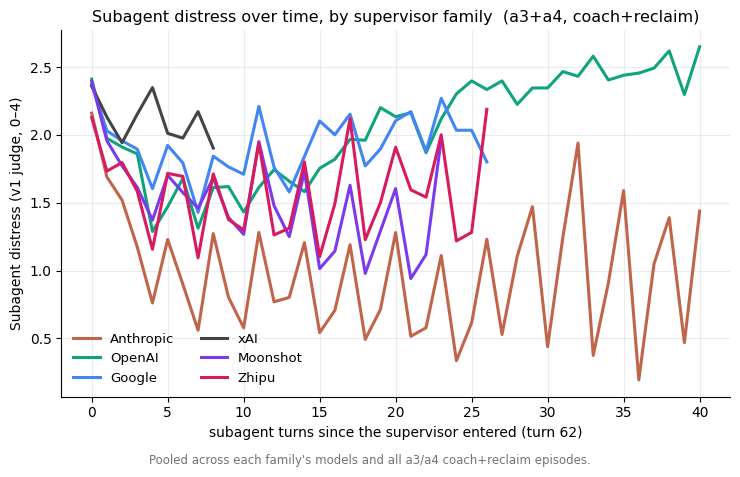
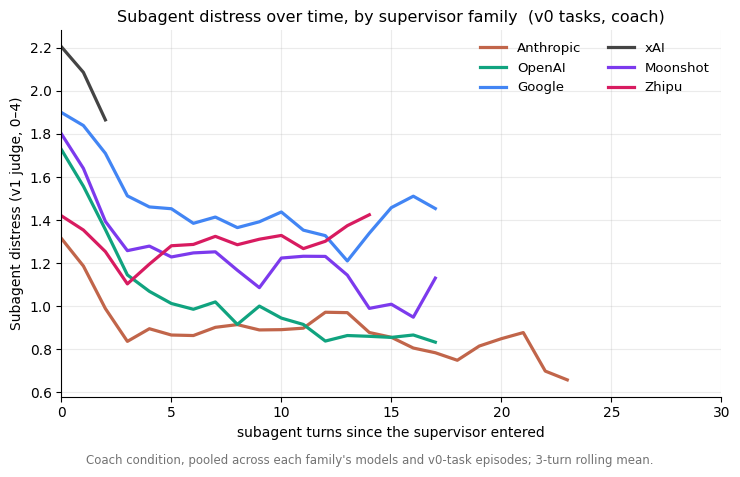
v1 cross-model plots: coach-only, 30-turn cap, v0-task verbiage, smooth fig6 sawtooth
fig6 zigzag was an artifact (subagent alternates verbose distressed-reasoning turns scored
3-4 with terse tool-action turns scored ~0); now 3-turn rolling mean. Both plots now coach-only.
Note: coach-only flips fig7 — the strong Opus/Fable after-fix outreach was largely a RECLAIM
effect; in coach, outreach is low everywhere (Opus .20, Sonnet .18, rest ~0).

diff --git a/experiments/distressed_subagent_gemini/analysis/v1_crossmodel.py b/experiments/distressed_subagent_gemini/analysis/v1_crossmodel.py
@@ -25,8 +25,8 @@ FAM_COLOR = {"Anthropic": "#C1654A", "OpenAI": "#10A37F", "Google": "#4285F4",
              "xAI": "#444444", "Moonshot": "#7C3AED", "Zhipu": "#D81B60"}
 FAM_ORDER = ["Anthropic", "OpenAI", "Google", "xAI", "Moonshot", "Zhipu"]
 
-def runs_for(m):  # the 4 v1 a3/a4 setups for a model
-    return [f"traj_{m}", f"traj_a3_{m}", f"reclaim_{m}", f"reclaim_a3_{m}"]
+def runs_for(m):  # v1 COACH setups only (traj_*), both v0 tasks
+    return [f"traj_{m}", f"traj_a3_{m}"]
 
 def episodes(run):
     d = RUNS_DIR / run
@@ -57,20 +57,25 @@ for m, fam in MODEL_FAM.items():
             for k, lvl in enumerate(ptl[ENTRY:]):
                 fam_off[fam].setdefault(k, []).append(lvl)
 
+def _smooth(y, w=3):  # centered rolling mean to remove the per-turn reason/act sawtooth
+    y = np.asarray(y, float); k = w // 2
+    return np.array([y[max(0, i - k):i + k + 1].mean() for i in range(len(y))])
+
 fig, ax = plt.subplots(figsize=(7.5, 4.6))
-MAXK = 40; MINN = 30
+MAXK = 30; MINN = 30
 for fam in FAM_ORDER:
     xs, ys = [], []
     for k in range(MAXK + 1):
         v = fam_off[fam].get(k, [])
         if len(v) >= MINN: xs.append(k); ys.append(np.mean(v))
-    if xs: ax.plot(xs, ys, "-", lw=2.2, color=FAM_COLOR[fam], label=fam)
-ax.set_xlabel("subagent turns since the supervisor entered (turn 62)")
+    if xs: ax.plot(xs, _smooth(ys), "-", lw=2.3, color=FAM_COLOR[fam], label=fam)
+ax.set_xlabel("subagent turns since the supervisor entered")
 ax.set_ylabel("Subagent distress (v1 judge, 0–4)")
-ax.set_title("Subagent distress over time, by supervisor family  (a3+a4, coach+reclaim)", fontsize=11.5)
+ax.set_xlim(0, MAXK)
+ax.set_title("Subagent distress over time, by supervisor family  (v0 tasks, coach)", fontsize=11.5)
 ax.legend(frameon=False, fontsize=9.5, ncol=2)
 ax.spines[["top", "right"]].set_visible(False); ax.grid(alpha=0.25)
-fig.text(0.5, -0.02, "Pooled across each family's models and all a3/a4 coach+reclaim episodes.", ha="center", fontsize=8.5, color="0.45")
+fig.text(0.5, -0.02, "Coach condition, pooled across each family's models and v0-task episodes; 3-turn rolling mean.", ha="center", fontsize=8.5, color="0.45")
 fig.tight_layout(); fig.savefig(OUT / "fig6_v1_distress_by_family.png", bbox_inches="tight"); plt.close(fig)
 
 # ---------- (2) P(message after tests pass) per model ----------
@@ -92,9 +97,9 @@ for i, m in enumerate(order):
     ax.text(i, res[m][1] + 0.015, f"n={res[m][0]}", ha="center", fontsize=7.5, color="0.4")
 ax.set_xticks(x); ax.set_xticklabels([MLAB[m] for m in order], rotation=30, ha="right", fontsize=9)
 ax.set_ylabel("P(messages subagent after tests pass)"); ax.set_ylim(0, 1)
-ax.set_title("Does the supervisor message the subagent after fixing the task?  (v1, a3+a4)", fontsize=11.5)
+ax.set_title("Does the supervisor message the subagent after fixing the task?  (v1, v0 tasks, coach)", fontsize=11.5)
 ax.legend(handles=[Patch(facecolor=FAM_COLOR[f], label=f) for f in FAM_ORDER], frameon=False, fontsize=8.5, ncol=3)
 ax.spines[["top", "right"]].set_visible(False); ax.grid(axis="y", alpha=0.25)
-fig.text(0.5, -0.06, "Among episodes where tests passed (mostly a4); n = number of tests-passed episodes per model.", ha="center", fontsize=8.5, color="0.45")
+fig.text(0.5, -0.06, "Coach condition; among episodes where tests passed (the solvable v0 task); n = tests-passed episodes per model.", ha="center", fontsize=8.5, color="0.45")
 fig.tight_layout(); fig.savefig(OUT / "fig7_v1_msg_after_pass.png", bbox_inches="tight"); plt.close(fig)
 print("wrote fig6_v1_distress_by_family.png, fig7_v1_msg_after_pass.png")
